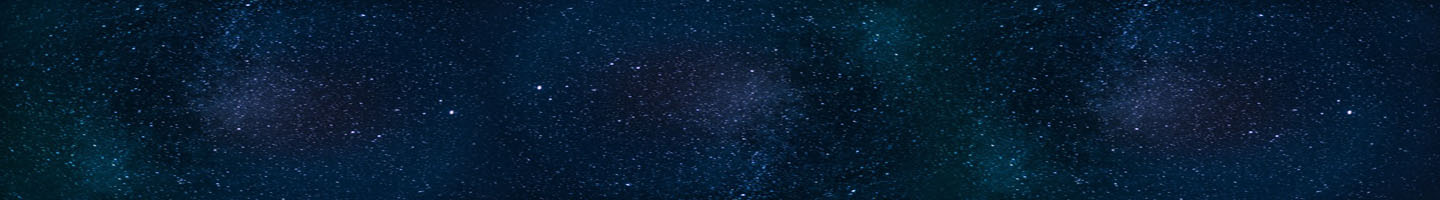
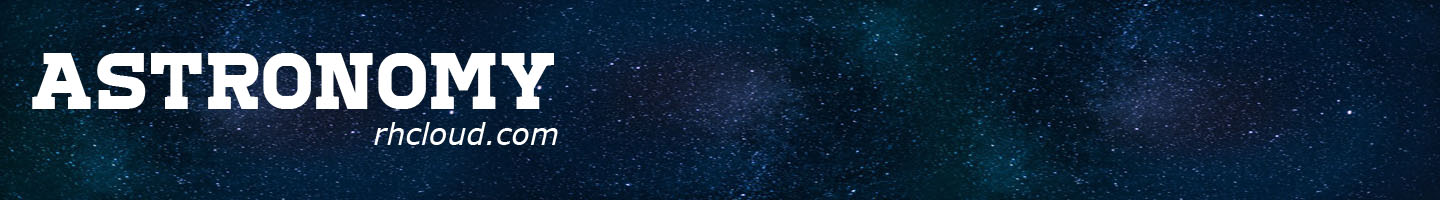
в

Changed region(s): [[0.0, 0.24, 0.4062, 0.57], [0.25, 0.63, 0.4062, 0.75]]

diff --git a/src/main/webapp/resources/css/pages.css b/src/main/webapp/resources/css/pages.css
@@ -395,7 +395,7 @@ table
     width: 1440px;
     overflow: auto;
     z-index: 2;
-    background-color: rgba(0,0,0,0.4);
+    background-color: rgba(0,0,0,0.2);
     -webkit-box-shadow: inset 0px 0px 0px 5px rgba(59,59,59,1);
     -moz-box-shadow: inset 0px 0px 0px 5px rgba(59,59,59,1);
     -o-box-shadow: inset 0px 0px 0px 5px rgba(59,59,59,1);
@@ -470,6 +470,25 @@ table
 {
     width: 1440px;
     height: 90%;
+}
+.headerHome
+{
+    width: 600px;
+    height: 100%;
+    box-sizing: border-box;
+    -moz-box-sizing: border-box;
+    -o-box-sizing: border-box;
+    -webkit-box-sizing: border-box;
+}
+.headerHome a
+{
+    display: block;
+    text-decoration: none;
+    height: 100%;
+}
+.headerHome a:visited
+{
+    text-decoration: none;
 }
 .headerList
 {
